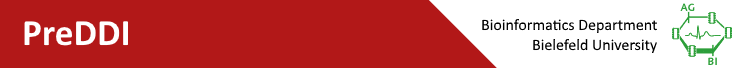
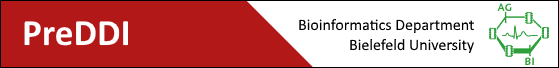
Update image dimensions

Changed region(s): [[0.0, 0.0, 1.0, 1.0], [0.0304, 0.2941, 0.2433, 0.6765]]

diff --git a/src/process_pmid_23520498.py b/src/process_pmid_23520498.py
@@ -54,10 +54,11 @@ def map_to_drugbank():
                 # 7 - TC
                 # 8 - Effect drugC-drugB
                 output = [row[0], id1, id2, id3, row[1], row[2], row[3], row[4], row[5]]
-                if (id2, id3) in existing_pairs or (id3, id2) in existing_pairs:
+                id_key = utils.get_id_pair_id(id2, id3)
+                if id_key in existing_pairs:
                     duplicated += 1
                     continue
-                existing_pairs.add((id2, id3))
+                existing_pairs.add(id_key)
                 matched_pairs.append(output)
                 if id1 is not None:
                     matched_triples.append(output)
